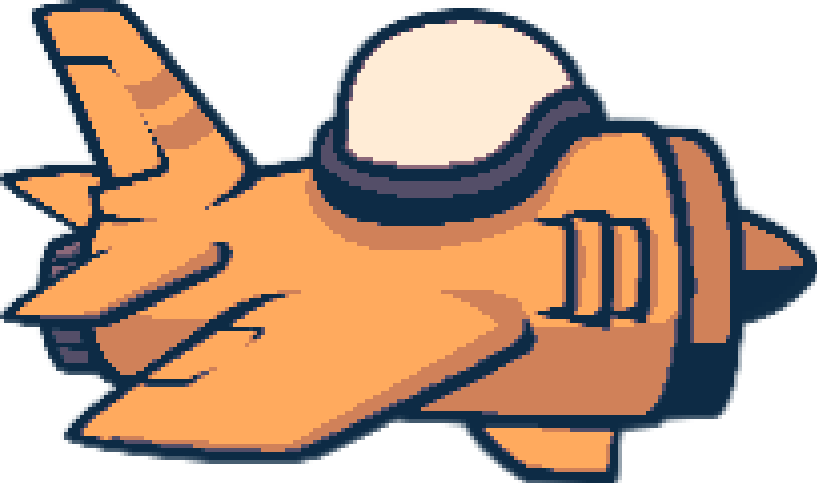
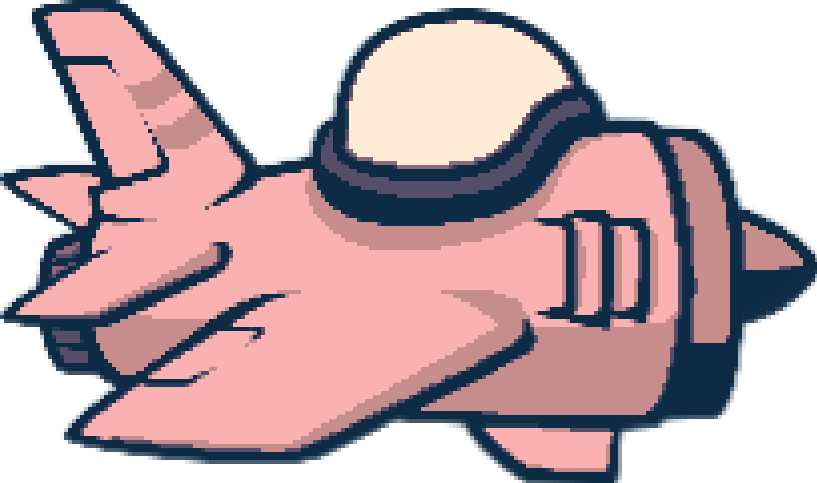
Added new level with enemy planes featuring different attributes and updated user plane image

diff --git a/src/main/java/com/example/demo/actors/EnemyPlane.java b/src/main/java/com/example/demo/actors/EnemyPlane.java
@@ -3,27 +3,102 @@ package com.example.demo.actors;
 import com.example.demo.ActiveActorDestructible;
 import com.example.demo.projectiles.EnemyProjectile;
 
+import java.util.ArrayList;
+import java.util.Collections;
+import java.util.List;
+
 public class EnemyPlane extends FighterPlane {
 
-	private static final String IMAGE_NAME = "enemyplane1.png";
+	private static final String ENEMY_IMAGE = "enemyplane1.png";
+	private static final String SPECIAL_ENEMY_IMAGE = "enemyplane2.png";
 	private static final int IMAGE_HEIGHT = 60;
-	private static final int HORIZONTAL_VELOCITY = -6;
+	private static final int INITIAL_HORIZONTAL_VELOCITY = -6;
+	private static final int SPECIAL_HORIZONTAL_VELOCITY = -9;
 	private static final double PROJECTILE_X_POSITION_OFFSET = -100.0;
 	private static final double PROJECTILE_Y_POSITION_OFFSET = 50.0;
+	private static final int Y_POSITION_UPPER_BOUND = 65;
+	private static final int Y_POSITION_LOWER_BOUND = 650;
 	private static final int INITIAL_HEALTH = 1;
+	private static final int SPECIAL_INITIAL_HEALTH = 3;
 	private static final double FIRE_RATE = .01;
 	private final double screenWidth = 1300;
+	private boolean specialEnemy;
+	private static final int VERTICAL_VELOCITY = 5;
+	private List<Integer> movePattern;
+	private int consecutiveMovesInSameDirection;
+	private int indexOfCurrentMove;
 
-	public EnemyPlane(double initialXPos, double initialYPos) {
-		super(IMAGE_NAME, IMAGE_HEIGHT, initialXPos, initialYPos, INITIAL_HEALTH);
+	public EnemyPlane(double initialXPos, double initialYPos, boolean specialEnemy) {
+		super(specialEnemy ? SPECIAL_ENEMY_IMAGE : ENEMY_IMAGE, IMAGE_HEIGHT, initialXPos, initialYPos, INITIAL_HEALTH);
+		this.specialEnemy = specialEnemy;
+
+		initializeMovePattern();
+
+		if (specialEnemy) {
+			setSpecialEnemyAttributes();
+		} else {
+			setNormalEnemyAttributes();
+		}
+	}
+
+	private void setNormalEnemyAttributes() {
+		this.health = INITIAL_HEALTH;
+		this.horizontalVelocity = INITIAL_HORIZONTAL_VELOCITY;
+	}
+
+	private void setSpecialEnemyAttributes() {
+		this.health = SPECIAL_INITIAL_HEALTH;
+		this.horizontalVelocity = SPECIAL_HORIZONTAL_VELOCITY;
 	}
 
 	@Override
 	public void updatePosition() {
-		moveHorizontally(HORIZONTAL_VELOCITY);
+		moveHorizontally(horizontalVelocity);
+
+		if (specialEnemy) {
+			moveVertically(getNextMove());
+		}
+
 		if (getLayoutX() + getTranslateX() < 0 || getLayoutX() + getTranslateX() > getScreenWidth()) {
 			this.destroy();
 		}
+	}
+
+	private void moveVertically(int verticalVelocity) {
+		double initialTranslateY = getTranslateY();
+		setTranslateY(getTranslateY() + verticalVelocity);
+
+		double currentPosition = getLayoutY() + getTranslateY();
+		if (currentPosition < Y_POSITION_UPPER_BOUND || currentPosition > Y_POSITION_LOWER_BOUND) {
+			setTranslateY(initialTranslateY);
+		}
+	}
+
+	private void initializeMovePattern() {
+		movePattern = new ArrayList<>();
+		movePattern.add(VERTICAL_VELOCITY);
+		movePattern.add(-VERTICAL_VELOCITY);
+		movePattern.add(0);
+		Collections.shuffle(movePattern);
+		consecutiveMovesInSameDirection = 0;
+		indexOfCurrentMove = 0;
+	}
+
+	private int getNextMove() {
+		int currentMove = movePattern.get(indexOfCurrentMove);
+		consecutiveMovesInSameDirection++;
+
+		if (consecutiveMovesInSameDirection == 10) {
+			Collections.shuffle(movePattern);
+			consecutiveMovesInSameDirection = 0;
+			indexOfCurrentMove++;
+		}
+
+		if (indexOfCurrentMove == movePattern.size()) {
+			indexOfCurrentMove = 0;
+		}
+
+		return currentMove;
 	}
 
 	protected double getScreenWidth() {

diff --git a/src/main/java/com/example/demo/levels/LevelTwo.java b/src/main/java/com/example/demo/levels/LevelTwo.java
@@ -1,0 +1,58 @@
+package com.example.demo.levels;
+
+import com.example.demo.ActiveActorDestructible;
+import com.example.demo.actors.EnemyPlane;
+
+public class LevelTwo extends LevelParent {
+
+    private static final String BACKGROUND_IMAGE_NAME = "/com/example/demo/images/sky2.png";
+    private static final int TOTAL_ENEMIES = 7;
+    private static final int KILLS_TO_ADVANCE = 15;
+    private static final double ENEMY_SPAWN_PROBABILITY = .25;
+    private static final double SPECIAL_ENEMY_PROBABILITY = 0.50;
+    private static final int PLAYER_INITIAL_HEALTH = 5;
+
+    public LevelTwo(double screenHeight, double screenWidth) {
+        super(BACKGROUND_IMAGE_NAME, screenHeight, screenWidth, PLAYER_INITIAL_HEALTH);
+    }
+
+    @Override
+    protected void checkIfGameOver() {
+        if (userIsDestroyed()) {
+            loseGame();
+        }
+        else if (userHasReachedKillTarget())
+            goToNextLevel("LevelBoss");
+    }
+
+    @Override
+    protected void initializeFriendlyUnits() {
+        if (!getRoot().getChildren().contains(getUser())) {
+            getRoot().getChildren().add(getUser());
+        }
+    }
+
+    @Override
+    protected void spawnEnemyUnits() {
+        if (getUser().getNumberOfKills() < KILLS_TO_ADVANCE) {
+            int totalEnemiesToSpawn = TOTAL_ENEMIES - getCurrentNumberOfEnemies();
+            for (int i = 0; i < totalEnemiesToSpawn; i++) {
+                if (Math.random() < ENEMY_SPAWN_PROBABILITY) {
+                    double newEnemyInitialYPosition = Math.random() * getEnemyMaximumYPosition();
+                    boolean isSpecialEnemy = Math.random() < SPECIAL_ENEMY_PROBABILITY;
+                    ActiveActorDestructible newEnemy = new EnemyPlane(getScreenWidth(), newEnemyInitialYPosition, isSpecialEnemy);
+                    addEnemyUnit(newEnemy);
+                }
+            }
+        }
+    }
+    @Override
+    protected LevelView instantiateLevelView() {
+        return new LevelView(getRoot(), PLAYER_INITIAL_HEALTH);
+    }
+
+    private boolean userHasReachedKillTarget() {
+        return getUser().getNumberOfKills() >= KILLS_TO_ADVANCE;
+    }
+
+}

diff --git a/src/main/java/com/example/demo/levels/LevelOne.java b/src/main/java/com/example/demo/levels/LevelOne.java
@@ -21,7 +21,7 @@ public class LevelOne extends LevelParent {
 			loseGame();
 		}
 		else if (userHasReachedKillTarget())
-			goToNextLevel("LevelBoss");
+			goToNextLevel("LevelTwo");
 	}
 
 	@Override
@@ -38,7 +38,7 @@ public class LevelOne extends LevelParent {
 			for (int i = 0; i < totalEnemiesToSpawn; i++) {
 				if (Math.random() < ENEMY_SPAWN_PROBABILITY) {
 					double newEnemyInitialYPosition = Math.random() * getEnemyMaximumYPosition();
-					ActiveActorDestructible newEnemy = new EnemyPlane(getScreenWidth(), newEnemyInitialYPosition);
+					ActiveActorDestructible newEnemy = new EnemyPlane(getScreenWidth(), newEnemyInitialYPosition, false);
 					addEnemyUnit(newEnemy);
 				}
 			}

diff --git a/src/main/java/com/example/demo/actors/FighterPlane.java b/src/main/java/com/example/demo/actors/FighterPlane.java
@@ -4,7 +4,8 @@ import com.example.demo.ActiveActorDestructible;
 
 public abstract class FighterPlane extends ActiveActorDestructible {
 
-	private int health;
+	protected int health;
+	protected int horizontalVelocity;
 
 	public FighterPlane(String imageName, int imageHeight, double initialXPos, double initialYPos, int health) {
 		super(imageName, imageHeight, initialXPos, initialYPos);
@@ -16,7 +17,7 @@ public abstract class FighterPlane extends ActiveActorDestructible {
 	@Override
 	public void takeDamage() {
 		health--;
-		if (healthAtZero()) {
+		if (healthAtZero() || health < 0) {
 			this.destroy();
 		}
 	}
